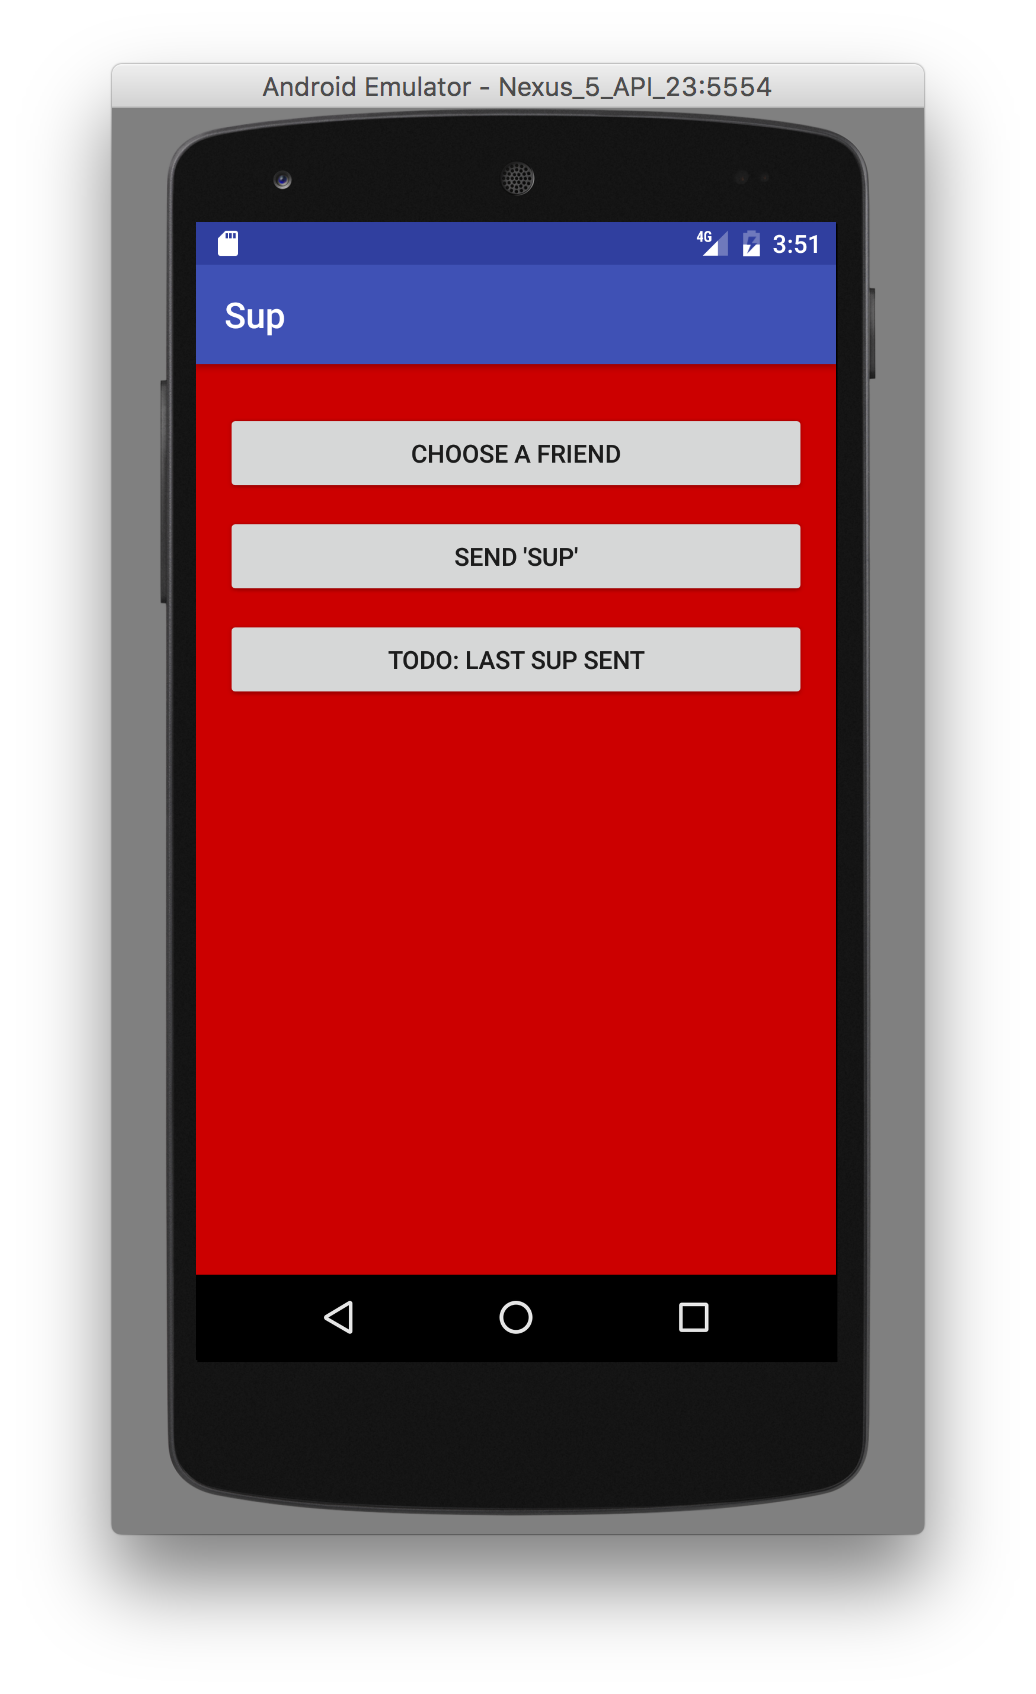
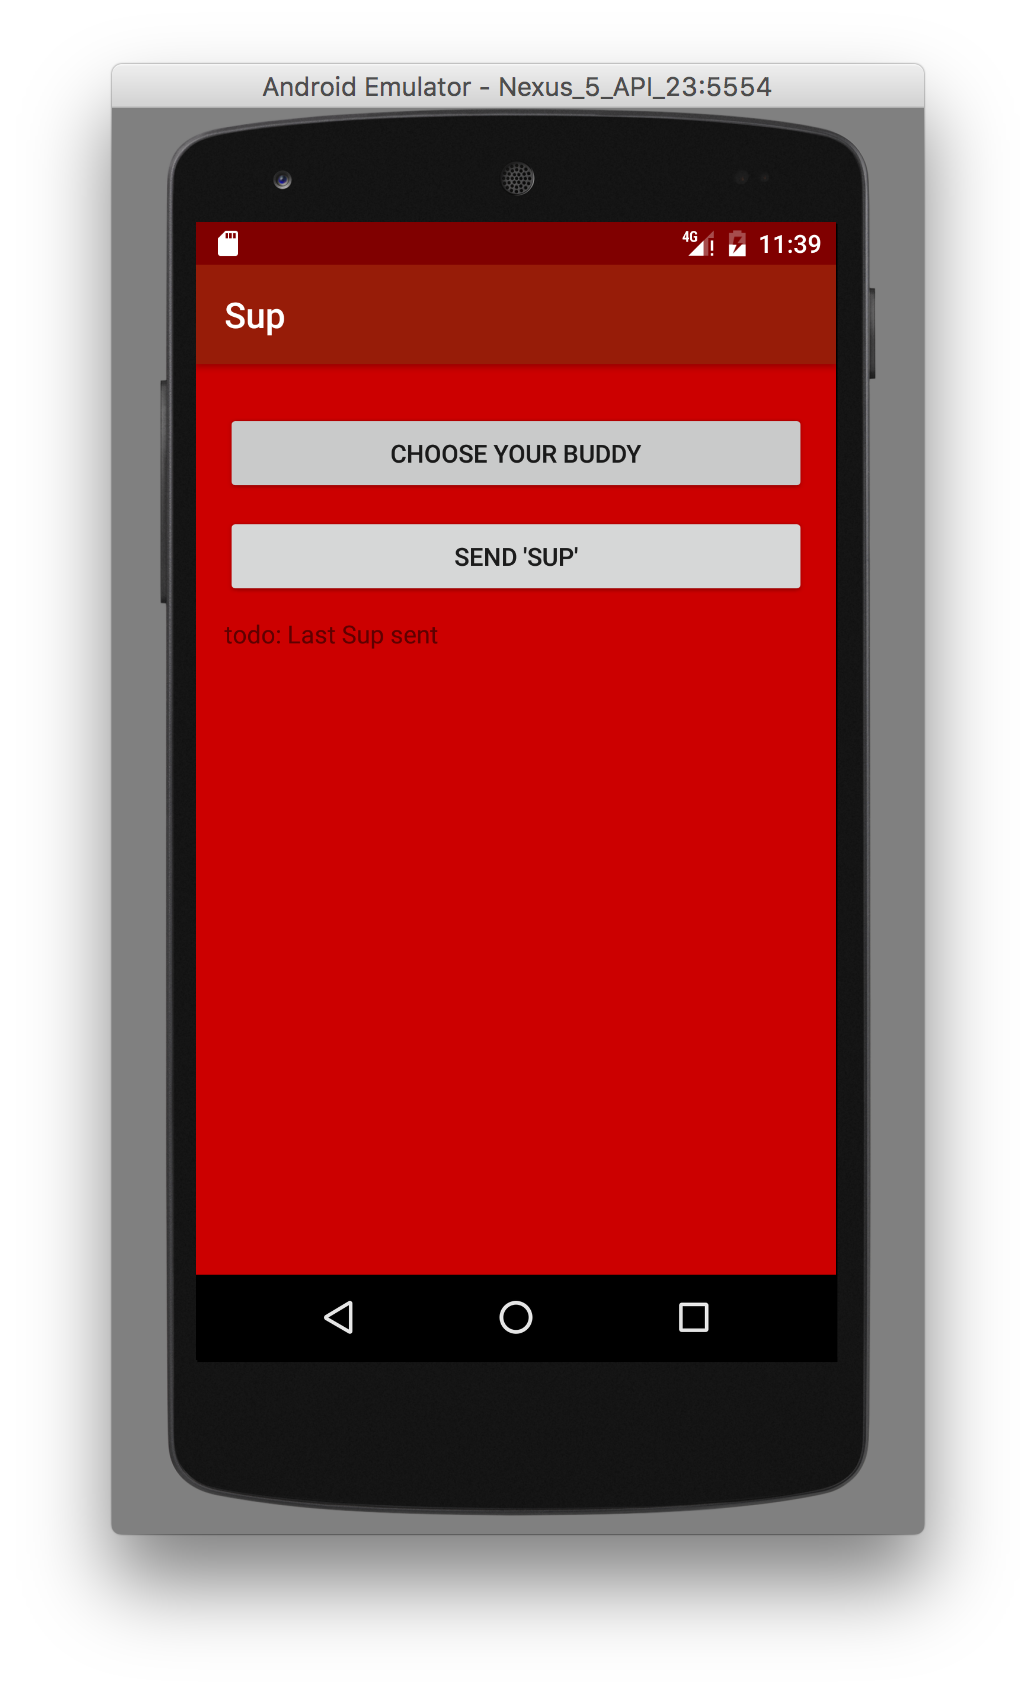
Update minor details in step 3

Changed region(s): [[0.1853, 0.1228, 0.834, 0.2149], [0.2162, 0.3684, 0.7722, 0.4298], [0.3707, 0.2456, 0.6178, 0.2763]]

diff --git a/src/render/code/03-activity-to-fragment.html b/src/render/code/03-activity-to-fragment.html
@@ -22,8 +22,8 @@ isPage: true
 		<p>Open up <b><span class="code">res/layouts/activity_sup.xml</span></b> and replace everything with the following:</p>
 
 <pre class="code-block">
-&lt;?<span class="blue">xml version=</span>"1.0" <span class="blue"encoding=</span>"utf-8"?&gt;
-<span class="black">&lt;FrameLayout</span>
+<span class="black">&lt;?<span class="blue">xml version=</span><span class="green">"1.0"</span> <span class="blue">encoding=</span><span class="green">utf-8"</span>?&gt;
+&lt;FrameLayout</span>
 	<span class="blue">xmlns:</span><span class="purple">android</span>="http://schemas.android.com/apk/res/android"
 	<span class="purple">android</span>:<span class="blue">layout_width=</span>"match_parent"
 	<span class="purple">android</span>:<span class="blue">layout_height=</span>"match_parent"
@@ -87,7 +87,7 @@ isPage: true
 
 		<p>At this point, your code should look like the following:</p>
 
-		<img src="/assets/03_ActivityToFragment.png" alt="">
+		<img src="/assets/03_SupFragment.png" alt="">
 	</div>
 
 	<div class="sct sct-secondary">
@@ -128,6 +128,14 @@ isPage: true
 		<p>Now, ensure <span class="code">SupActivity.java</span> looks as below:</p>
 
 		<img src="/assets/03_SupActivity.png">
+	</div>
+
+	<div class="sct sct-secondary">
+		<h3>Run Your App</h3>
+
+		<p>Press the <b>green play button</b>. Your app should look like this:</p>
+
+		<img src="/assets/03_ActivityToFragment.png" alt="" class="phone">
 	</div>
 
     <div class="sct">

diff --git a/src/render/sup/step3.html b/src/render/sup/step3.html
@@ -40,8 +40,8 @@ isPage: true
 		<p>Open up <b><span class="code">res/layouts/activity_sup.xml</span></b> and replace everything with the following:</p>
 
 <pre class="code-block">
-&lt;?<span class="blue">xml version=</span>"1.0" <span class="blue"encoding=</span>"utf-8"?&gt;
-<span class="black">&lt;FrameLayout</span>
+<span class="black">&lt;?<span class="blue">xml version=</span><span class="green">"1.0"</span> <span class="blue">encoding=</span><span class="green">utf-8"</span>?&gt;
+&lt;FrameLayout</span>
 	<span class="blue">xmlns:</span><span class="purple">android</span>="http://schemas.android.com/apk/res/android"
 	<span class="purple">android</span>:<span class="blue">layout_width=</span>"match_parent"
 	<span class="purple">android</span>:<span class="blue">layout_height=</span>"match_parent"
@@ -113,7 +113,7 @@ isPage: true
 
 		<p>At this point, your code should look like the following:</p>
 
-		<img src="/assets/03_ActivityToFragment.png" alt="">
+		<img src="/assets/03_SupFragment.png" alt="">
 	</div>
 
 	<div class="sct sct-secondary">
@@ -158,6 +158,14 @@ isPage: true
 		<p>Now, ensure <span class="code">SupActivity.java</span> looks as below:</p>
 
 		<img src="/assets/03_SupActivity.png">
+	</div>
+
+	<div class="sct sct-secondary">
+		<h3>Run Your App</h3>
+
+		<p>Press the <b>green play button</b>. Your app should look like this:</p>
+
+		<img src="/assets/03_ActivityToFragment.png" alt="" class="phone">
 	</div>
 
 </div>

diff --git a/src/render/sup/index.html b/src/render/sup/index.html
@@ -11,14 +11,15 @@ isPage: false
 	<p class="code" style="margin:0 0 30px 30px;">code/<br>
 		<a href="/code/01-hello-world.html">Step 1: Hello World</a><br>
 		<a href="/code/02-widgets-and-resources.html">Step 2: Widgets and Resources</a><br>
+		<a href="/code/03-activity-to-fragment.html">Step 3: Activity to Fragment</a>
 	</p>
 
 	<h3>TODOs:</h3>
 	<ul>
-		<li><a href="/">index.html</a>: Lorem Ipsum</li>
-		<li><a href="/code/01-hello-world.html">code/01-hello-world.html</a>: screenshots and 1 content change</li>
-		<li><a href="/sup/step1.html">sup/step1.html</a>: screenshots and 1 content change</li>
-		<li><a href="/sup/step2.html">sup/step2.html</a>: screenshot</li>
+		<li>Step 4</li>
+		<li>PPT</li>
+		<li>Concepts</li>
+		<li>Resources</li>
 	</ul>
 		
 </div>
